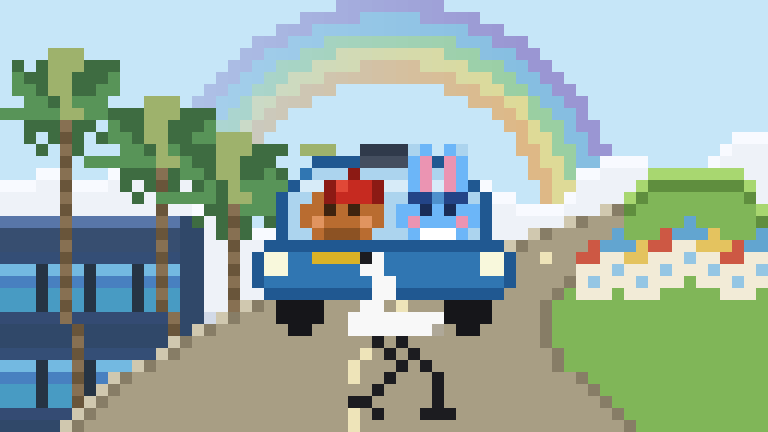
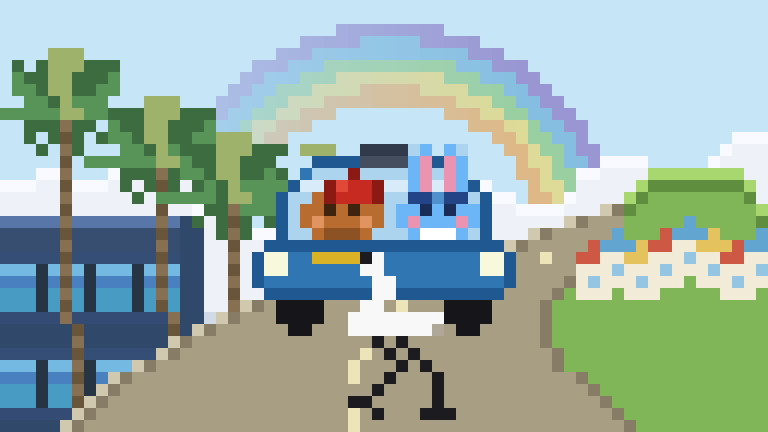
rainbow: 彩虹下移2格

Changed region(s): [[0.25, 0.0, 0.8125, 0.4815]]

diff --git a/pixel_rainbow.py b/pixel_rainbow.py
@@ -73,7 +73,7 @@ for _bi, _rc in enumerate(RB_RAW):
     _r2 = _r1 + 1.3
     for _x in range(0, 64):
         for _y in range(0, 27):
-            _dist = math.sqrt(((_x - 32))**2 + (_y - 19)**2)
+            _dist = math.sqrt(((_x - 32))**2 + (_y - 21)**2)
             if _r1 <= _dist < _r2:
                 # x < fade_start: 完全天空色（不画）
                 if _x < _fade_start_x:
